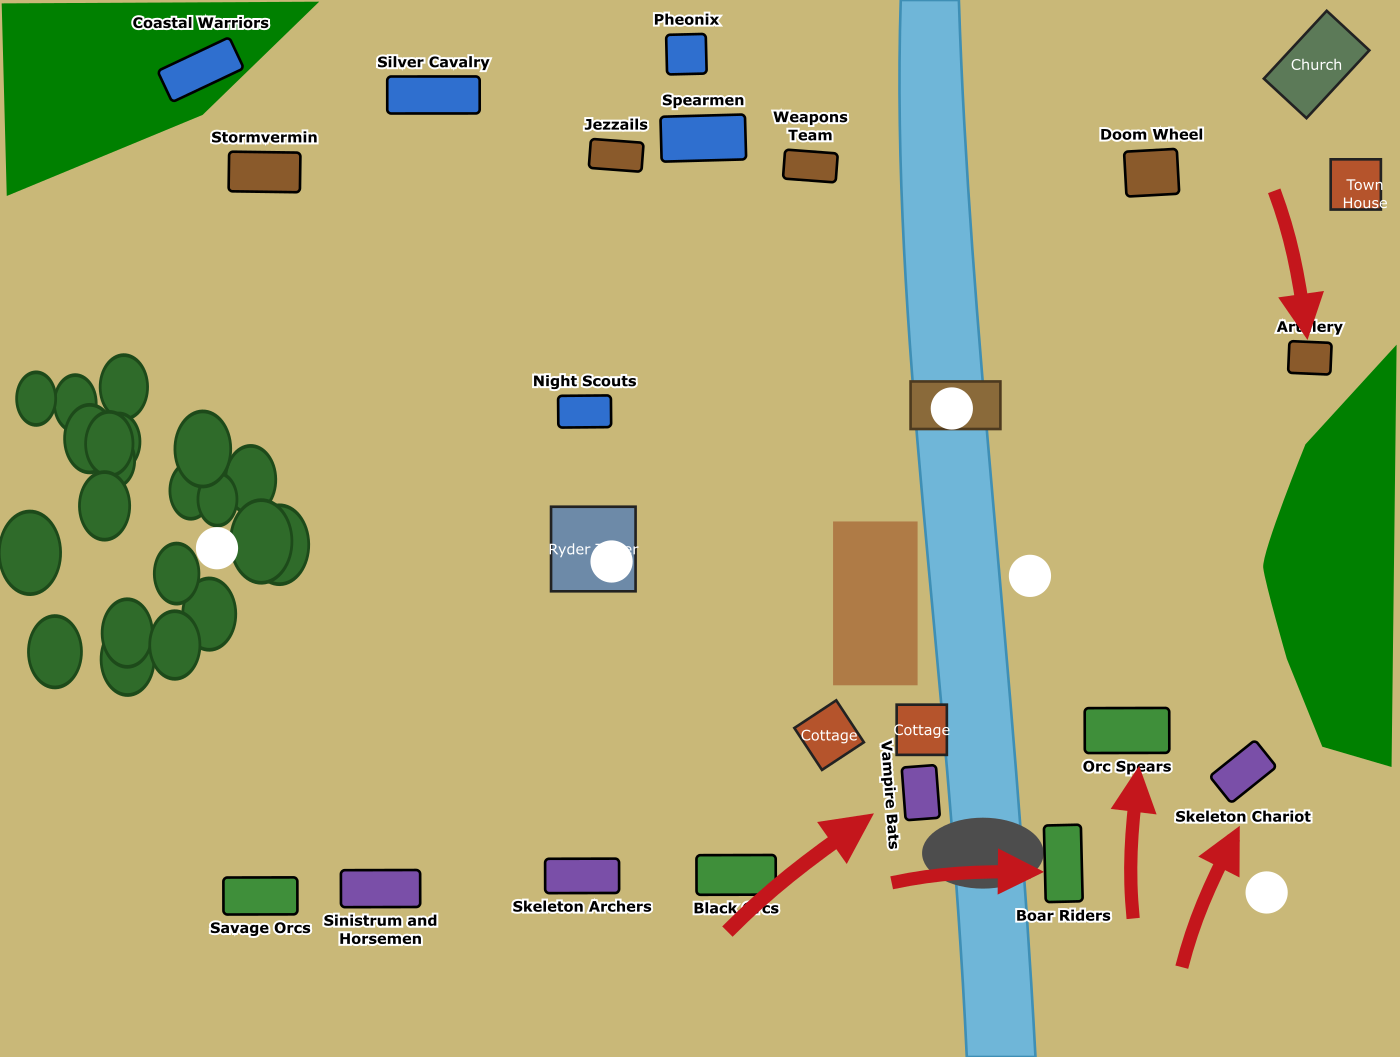
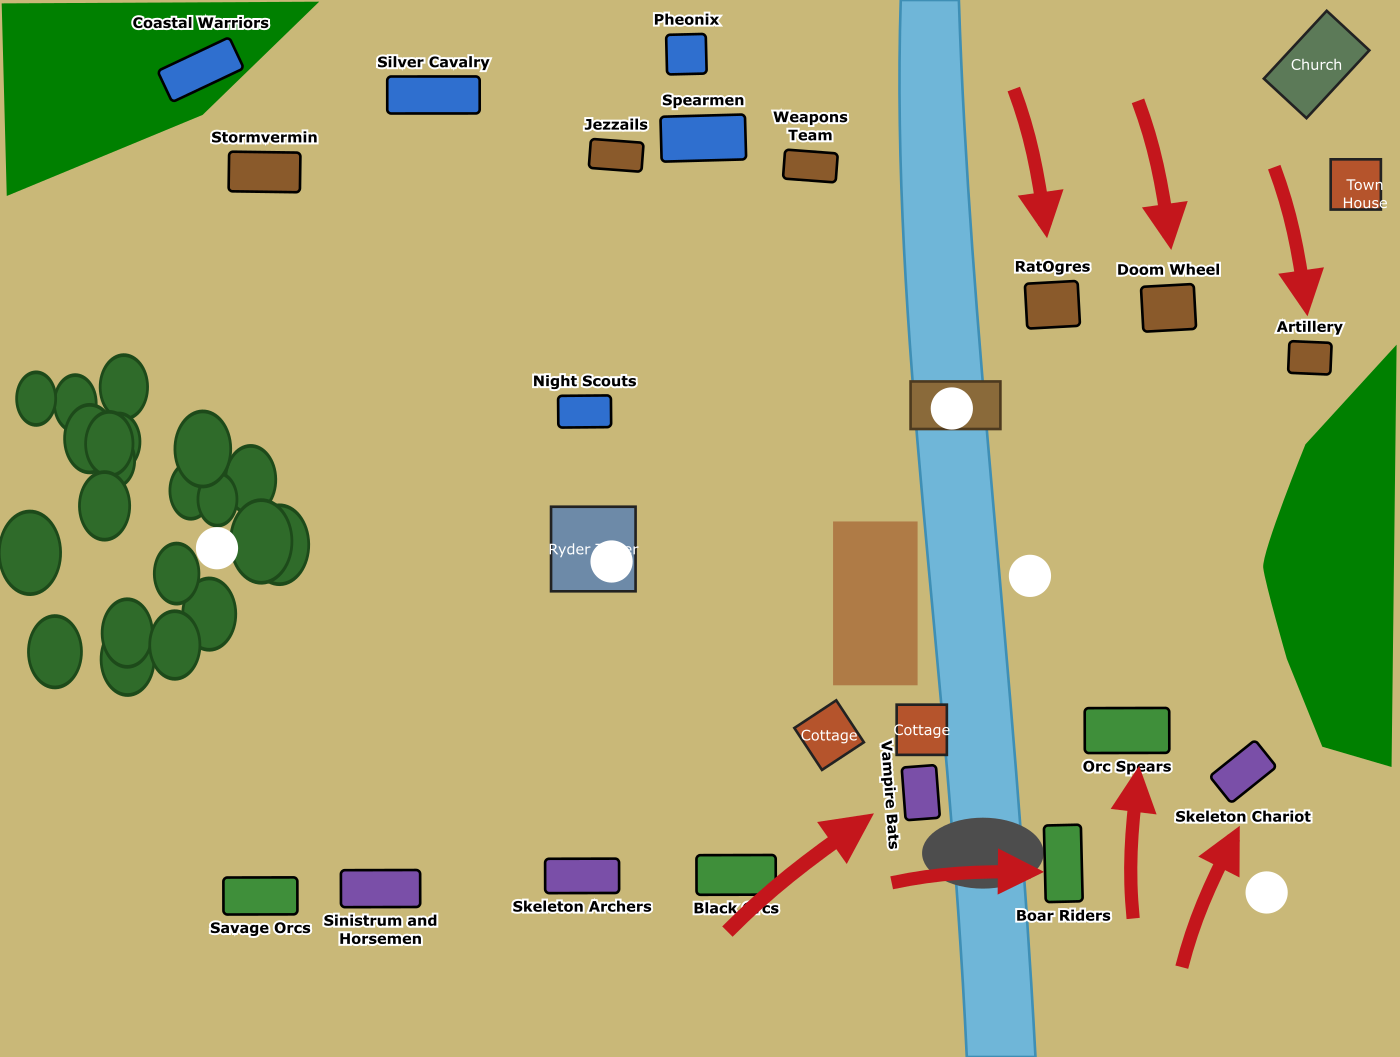
fixed map one

Changed region(s): [[0.7064, 0.0624, 0.8907, 0.3122], [0.8907, 0.1561, 0.9521, 0.3122]]

diff --git a/reports/battle-01/index.html b/reports/battle-01/index.html
@@ -33,9 +33,9 @@
       <section class="turn">
         <img src="images/battle-02.jpg" alt="Battle scene 1">
         <div class="caption">
-          <p>The Skaven artillerists edge their cautious way towards a nearby hill, from which they gleefully plan to
-            rain burning warpfire down upon the flesh of their hated foes.</p>
-          <p>They are supported to their flank by the thundering Doom Wheel and ferocious Rat Ogres.</p>
+          <p>The Skaven artillerists on the right flank edge their cautious way towards a nearby hill, from which they
+            gleefully plan to rain burning warpfire upon the flesh of their hated foes.</p>
+          <p>They are supported by the thundering Doom Wheel and ferocious Rat Ogres.</p>
         </div>
       </section>
       <section class="turn">
